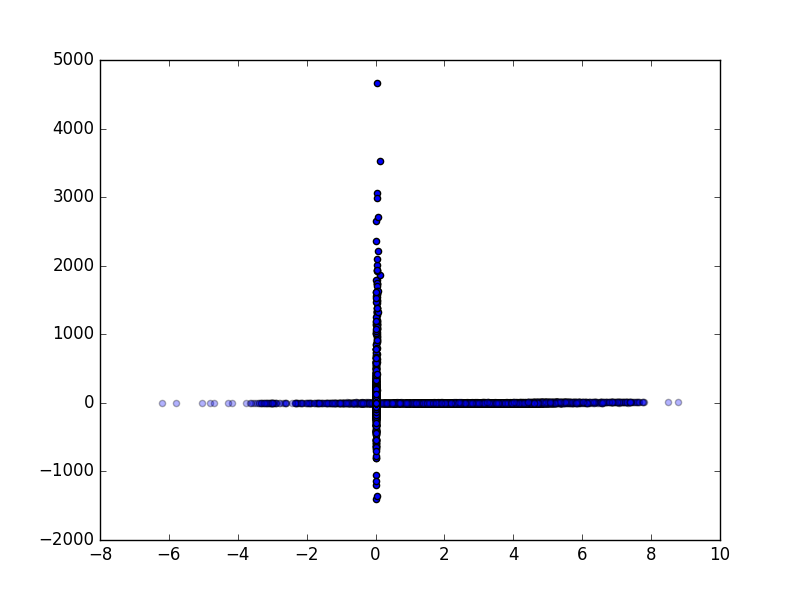
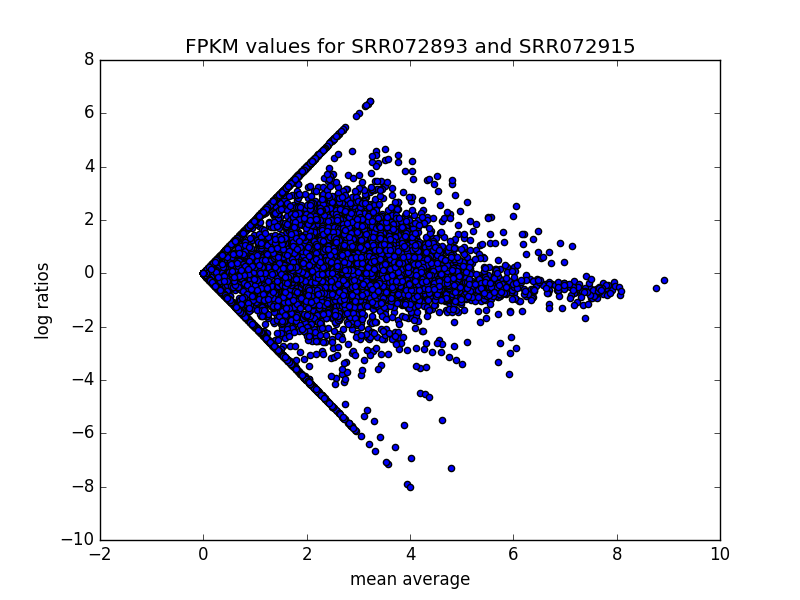
add day4-homework complete

diff --git a/day4-homework/02-maplot.py b/day4-homework/02-maplot.py
@@ -8,37 +8,38 @@ import numpy as np
 df1_ctab=pd.read_csv(sys.argv[1], sep="\t")
 df2_ctab=pd.read_csv(sys.argv[2], sep="\t")
 
-df1_roi = df1_ctab["FPKM"] >= 0
-df2_roi = df2_ctab["FPKM"] >= 0
-
-df1_exp = np.log(df1_ctab[df1_roi]["FPKM"].values)
-df2_exp = np.log(df2_ctab[df2_roi]["FPKM"].values)
+df1_exp = df1_ctab["FPKM"].values
+df2_exp = df2_ctab["FPKM"].values
 
 
-count1 = 0
-count2 = 0
+# count1 = 0
+# count2 = 0
+#
+# for row in df1_exp:
+#     count1 += 1
+# for row in df2_exp:
+#     count2 += 2
+#
+# count_total = count1 + count2
+# count_tot_float = float(count_total)
 
-for row in df1_exp:
-    count1 += 1
-for row in df2_exp:
-    count2 += 2
 
-count_total = count1 + count2
-count_tot_float = float(count_total)
+# avg = (df1_exp+df2_exp)/count_total
+# diff = df2_exp - df1_exp
+#
+# val_avg = np.log(df1_exp)
+# val_diff = np.log(diff)
 
+val_log1 = np.log(df1_exp+1)
+val_log2 = np.log(df2_exp+1)
 
-avg = (df1_exp+df2_exp)/count_total
-diff = df2_exp - df1_exp
-
-val_avg = np.log(df1_exp)
-val_diff = np.log(diff)
-
-# val_log1 = np.log(df1_exp)
-# val_log2 = np.log(df2_exp)
+x = 0.5 * (val_log1 + val_log2)
+y= val_log1 - val_log2
 
 plt.figure()
-plt.scatter(val_log1,val_log2, alpha=0.3)
-plt.scatter(avg,diff)
+plt.scatter(x,y)
+plt.title("FPKM values for SRR072893 and SRR072915")
+plt.xlabel("mean average")
+plt.ylabel("log ratios")
 plt.savefig("ma_plot.png")
-plt.show()
 plt.close()

diff --git a/day4-homework/03-densityplot.py b/day4-homework/03-densityplot.py
@@ -1,16 +1,22 @@
 #!/usr/bin/env python
 
 import sys
+import pandas as pd
 import matplotlib.pyplot as plt
 import numpy as np
+from scipy.stats import gaussian_kde
 
-df_ctab = pd.read_csv(sys.argv[1], sep="\t")
+df_ctab = pd.read_table(sys.argv[1])
 
-df_roi = df_ctab["FPKM"] >= 0
-df_high_exp = df_ctab[df_roi]["FPKM"].values
+df1_exp = df_ctab["FPKM"].values
 
-plot.figure()
+density = gaussian_kde(df1_exp)
+
+plt.figure()
 plt.title("Density of SRR072893 FPKM values")
-plt.hexbin(
-            
-)
+xs = np.linspace(np.min(df1_exp),100,100)
+plt.plot(xs,density(xs))
+plt.savefig("density_plot.png")
+plt.close
+
+
